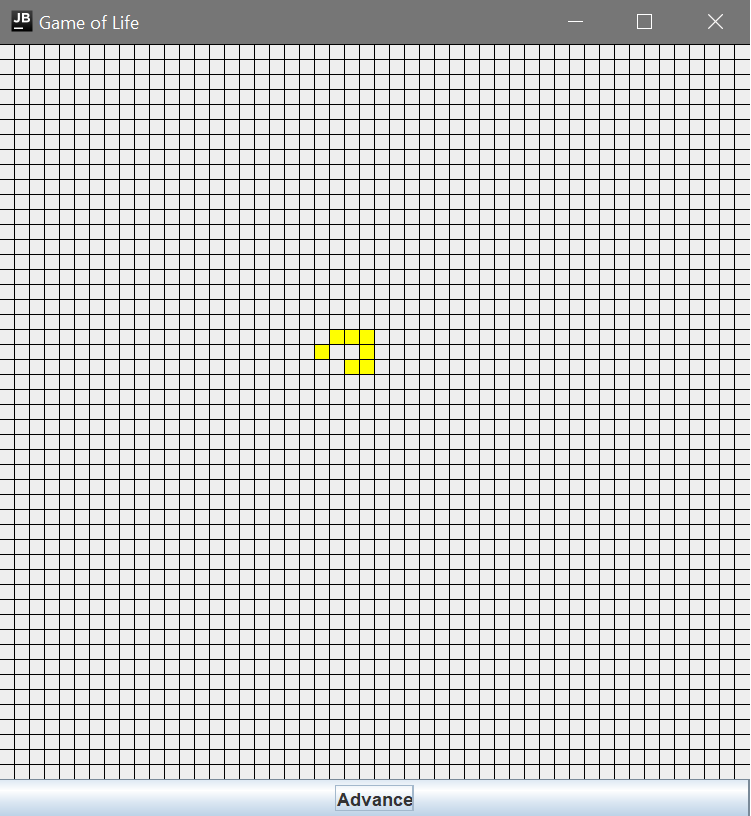
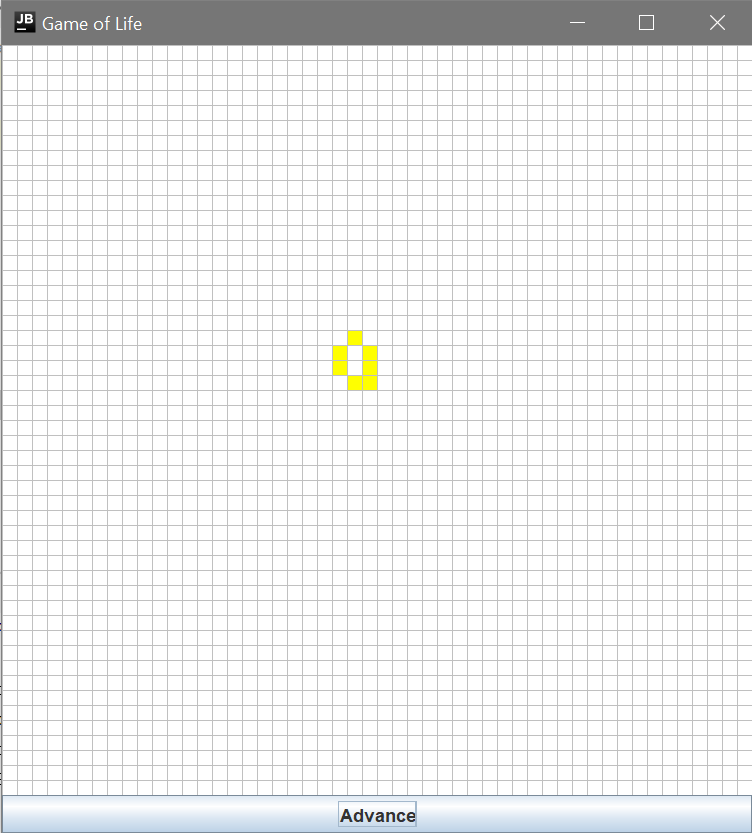
updated colors and screenshot

Changed region(s): [[0.0, 0.0, 1.0, 1.0]]

diff --git a/src/main/java/touro/GameOfLife/GridView.java b/src/main/java/touro/GameOfLife/GridView.java
@@ -18,12 +18,18 @@ public class GridView extends JComponent {
     @Override
     protected void paintComponent(Graphics g) {
         super.paintComponent(g);
+        paintBackground(g);
         paintLiveCells(g);
         drawGrid(g);
     }
 
+    private void paintBackground(Graphics g) {
+        g.setColor(Color.WHITE);
+        g.fillRect(0, 0, getWidth(), getHeight());
+    }
+
     void drawGrid(Graphics g) {
-        g.setColor(Color.BLACK);
+        g.setColor(Color.LIGHT_GRAY);
 
         for (int i = 0; i < rows; i++) {
             g.drawLine(0, i * CELL_SIZE, GRID_SIZE, i * CELL_SIZE);
